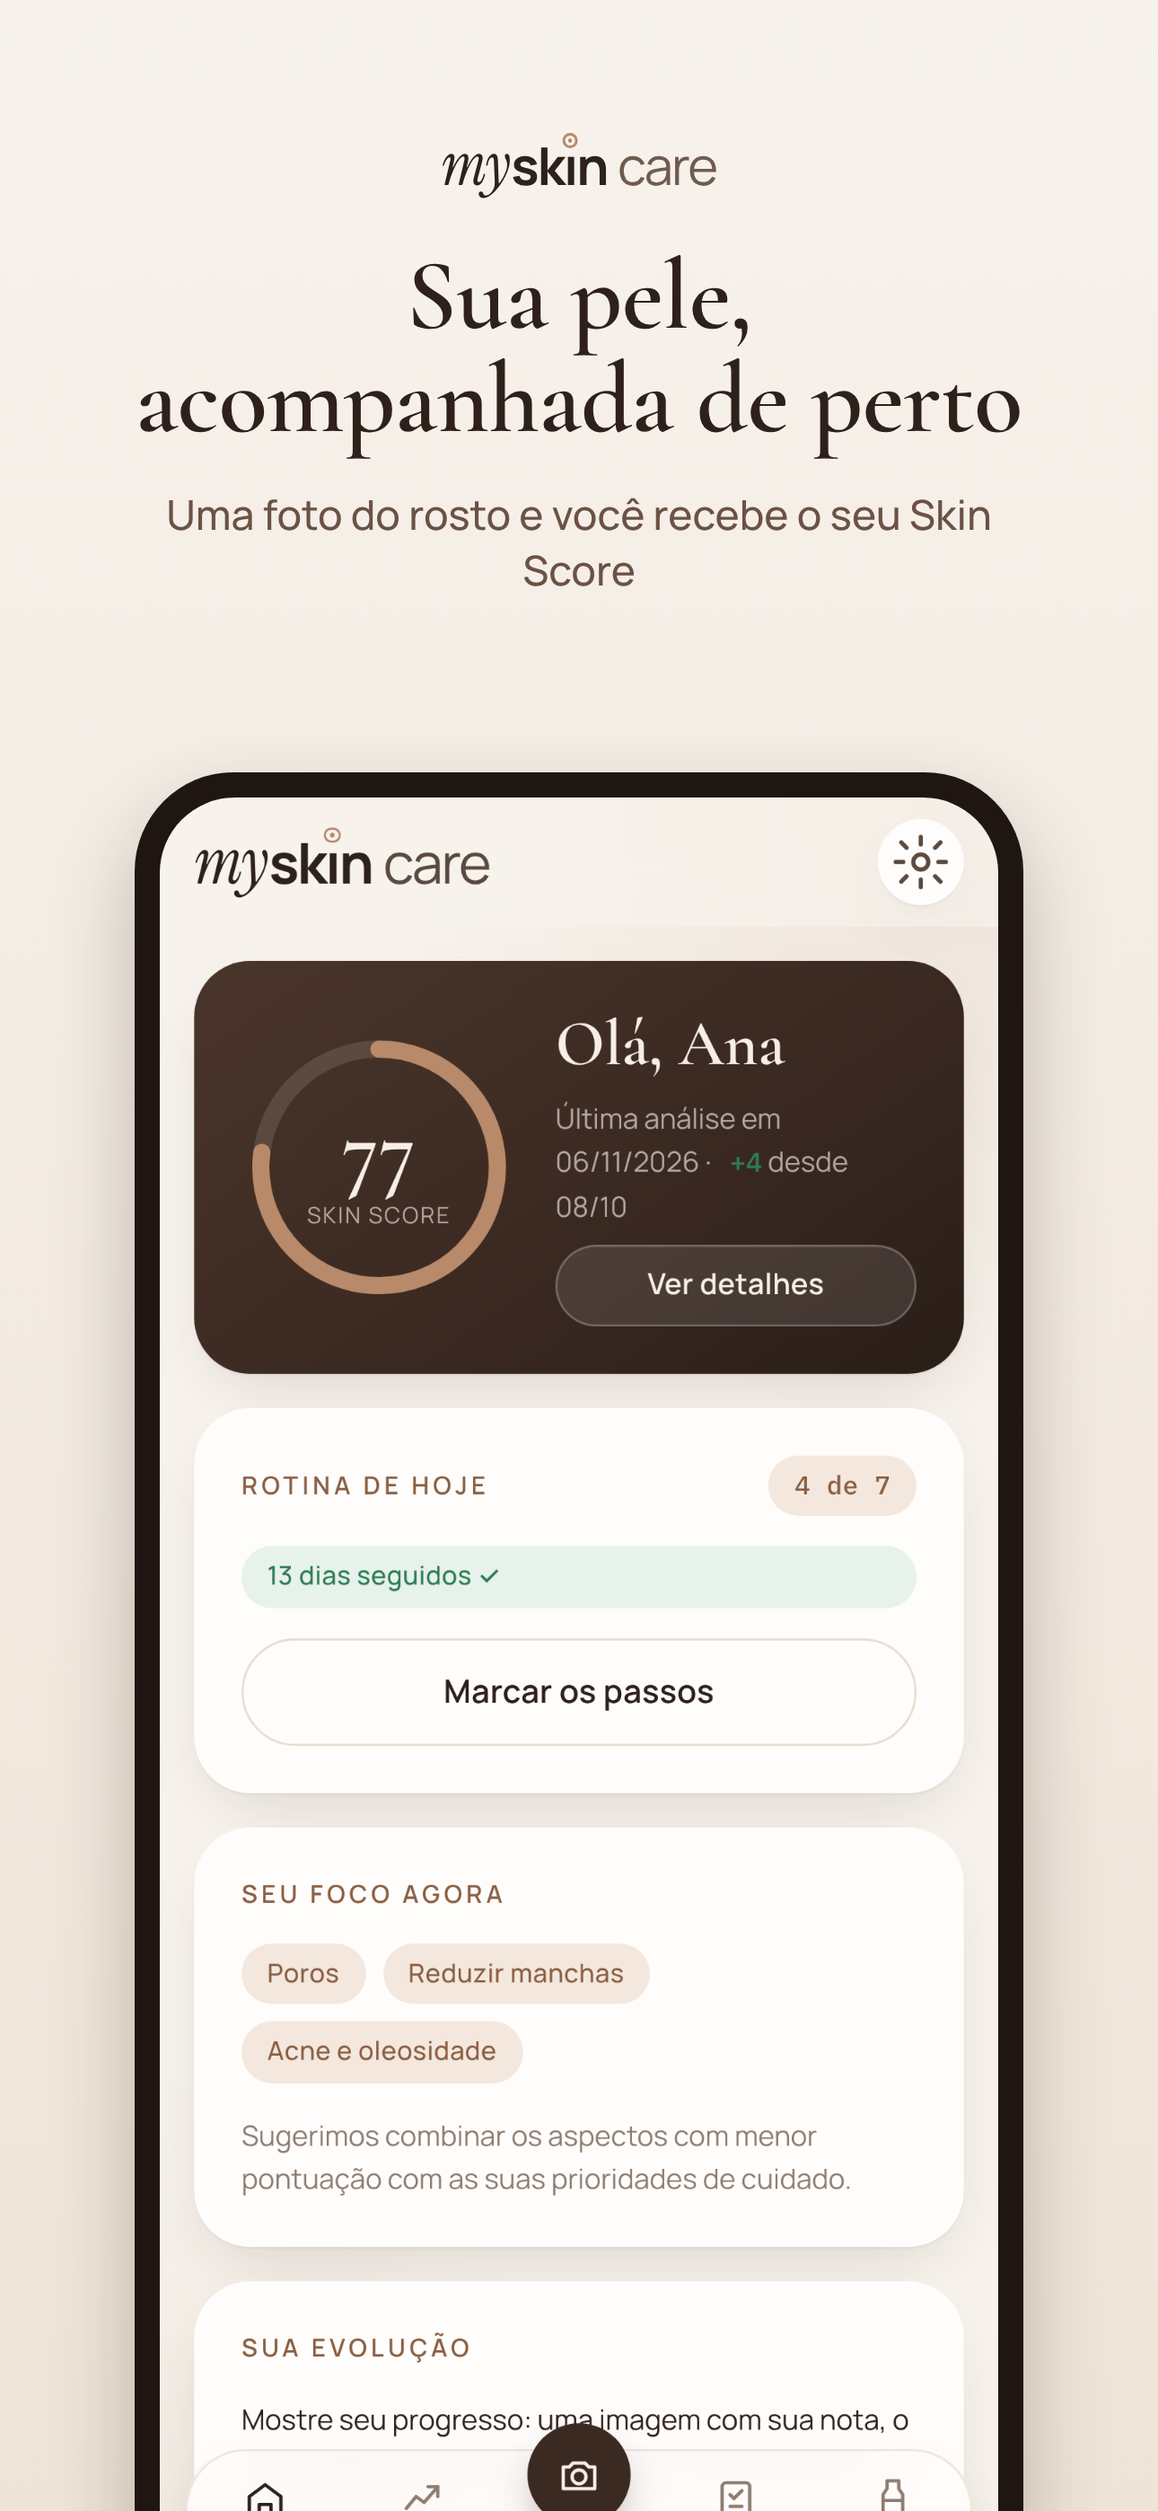
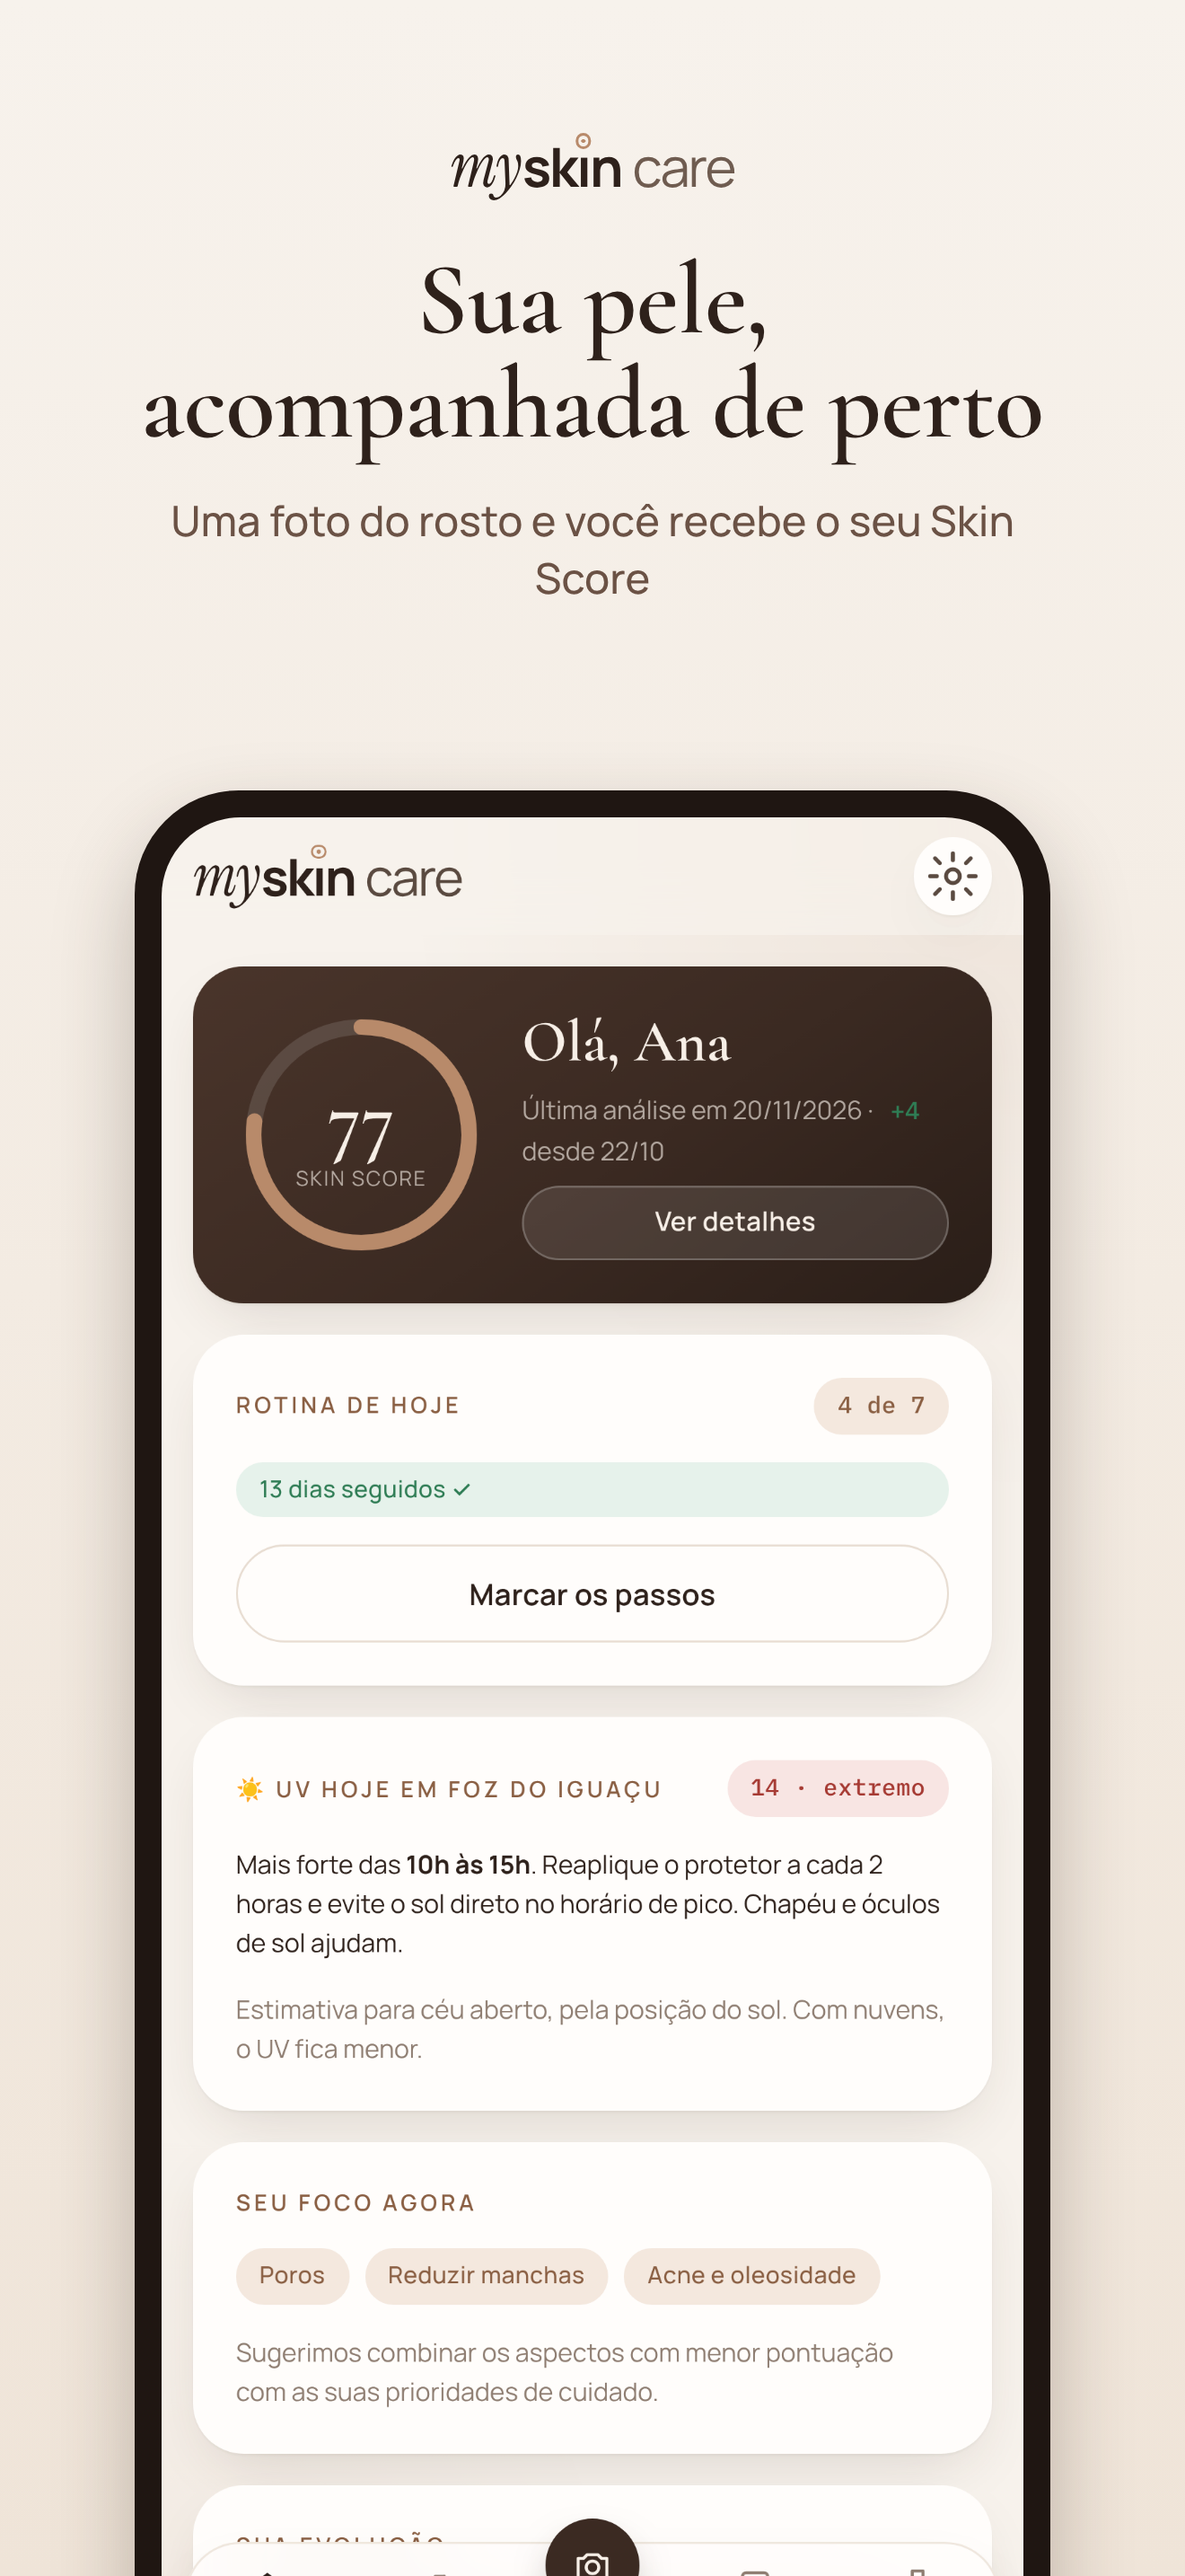
App Store screenshots at 1320x2868 with the label reader, skin tone and UV
Screens are captured at the 6.9-inch iPhone size (440x956 at 3x). Also fixes the
label photo overlapping the title and lists objectives with commas.

Claude-Session: https://claude.ai/code/session_01DXg28uoPzhotMrWRpvsyum

diff --git a/app/rotulo.js b/app/rotulo.js
@@ -105,7 +105,11 @@ export function avaliaRotulo(ingredientes, ctx = {}) {
   for (const k of Object.keys(AJUDA)) {
     if (!tem(k) || (ctx.perfil?.gestante && k === "retinoide")) continue;
     const meus = AJUDA[k].filter((o) => focos.has(o));
-    if (meus.length) bom(`${nome(k)}: ajuda em ${meus.map((o) => o.toLowerCase()).join(" e ")}, ${meus.length > 1 ? "focos" : "um foco"} da sua pele.`);
+    if (meus.length) {
+      // objectives already contain "e" ("Acne e oleosidade"): list them with commas
+      const l = meus.map((o) => o.toLowerCase()), lista = l.length > 1 ? `${l.slice(0, -1).join(", ")}, e ${l.at(-1)}` : l[0];
+      bom(`${nome(k)}: ajuda em ${lista}, ${meus.length > 1 ? "focos" : "um foco"} da sua pele.`);
+    }
   }
   if (!tem("fragrancia") && ingredientes?.length) bom("Sem fragrância na lista.");
   if (!Object.keys(AJUDA).some(tem) && !tem("receita")) dica("Não encontramos ativos de tratamento: é um produto básico (limpeza, hidratação ou proteção).");

diff --git a/app/estilo.css b/app/estilo.css
@@ -337,6 +337,7 @@ ul.pontos li.good .ico { background: var(--good); }
 ul.pontos li.warn .ico { background: var(--warn); }
 ul.pontos li.bad .ico { background: var(--bad); }
 .rotulo-foto { width: 84px; height: 84px; object-fit: cover; border-radius: 14px; flex: none; }
+.prod-top:has(.rotulo-foto) { grid-template-columns: 84px 1fr; }
 .card.center .rotulo-foto { width: 140px; height: 140px; margin: 0 auto 8px; }
 fieldset.pergunta { border: 0; margin: 0; padding: 0; display: grid; gap: 2px; }
 fieldset.pergunta legend { font-weight: 600; font-size: 14.5px; margin-bottom: 4px; padding: 0; }

diff --git a/app/sw.js b/app/sw.js
@@ -1,5 +1,5 @@
 // Service worker: guarda os arquivos do app para abrir sem internet. A análise sempre vai à rede.
-const VERSAO = "myskin-v40";
+const VERSAO = "myskin-v41";
 const ARQUIVOS = ["./", "index.html", "estilo.css", "visual-novo.css", "app.js", "recomenda.js", "afiliados.js", "uv.js", "rotulo.js", "tom.js", "cidades.json", "nativo.js", "catalogo.json", "termos.html", "privacidade.html", "manifest.webmanifest", "icones/icone-192.png", "icones/icone-512.png", "icones/apple-touch-icon.png"];
 
 self.addEventListener("install", (e) => {

diff --git a/docs/loja/app-store/textos.md b/docs/loja/app-store/textos.md
@@ -95,7 +95,7 @@ Dúvidas: myskincare.ia.sac@gmail.com
 Site: https://www.myskincareapp.com.br
 ```
 
-**Capturas de tela do iPhone 6,9"** (1290 × 2796): `tela-1-inicio.png` a `tela-6-analisar.png`, nesta
+**Capturas de tela do iPhone 6,9"** (1320 × 2868): `tela-1-inicio.png` a `tela-9-analisar.png`, nesta
 ordem. A Apple reduz sozinha para os iPhones menores. iPad: o app é só para iPhone (não enviar).
 
 ## Classificação etária
